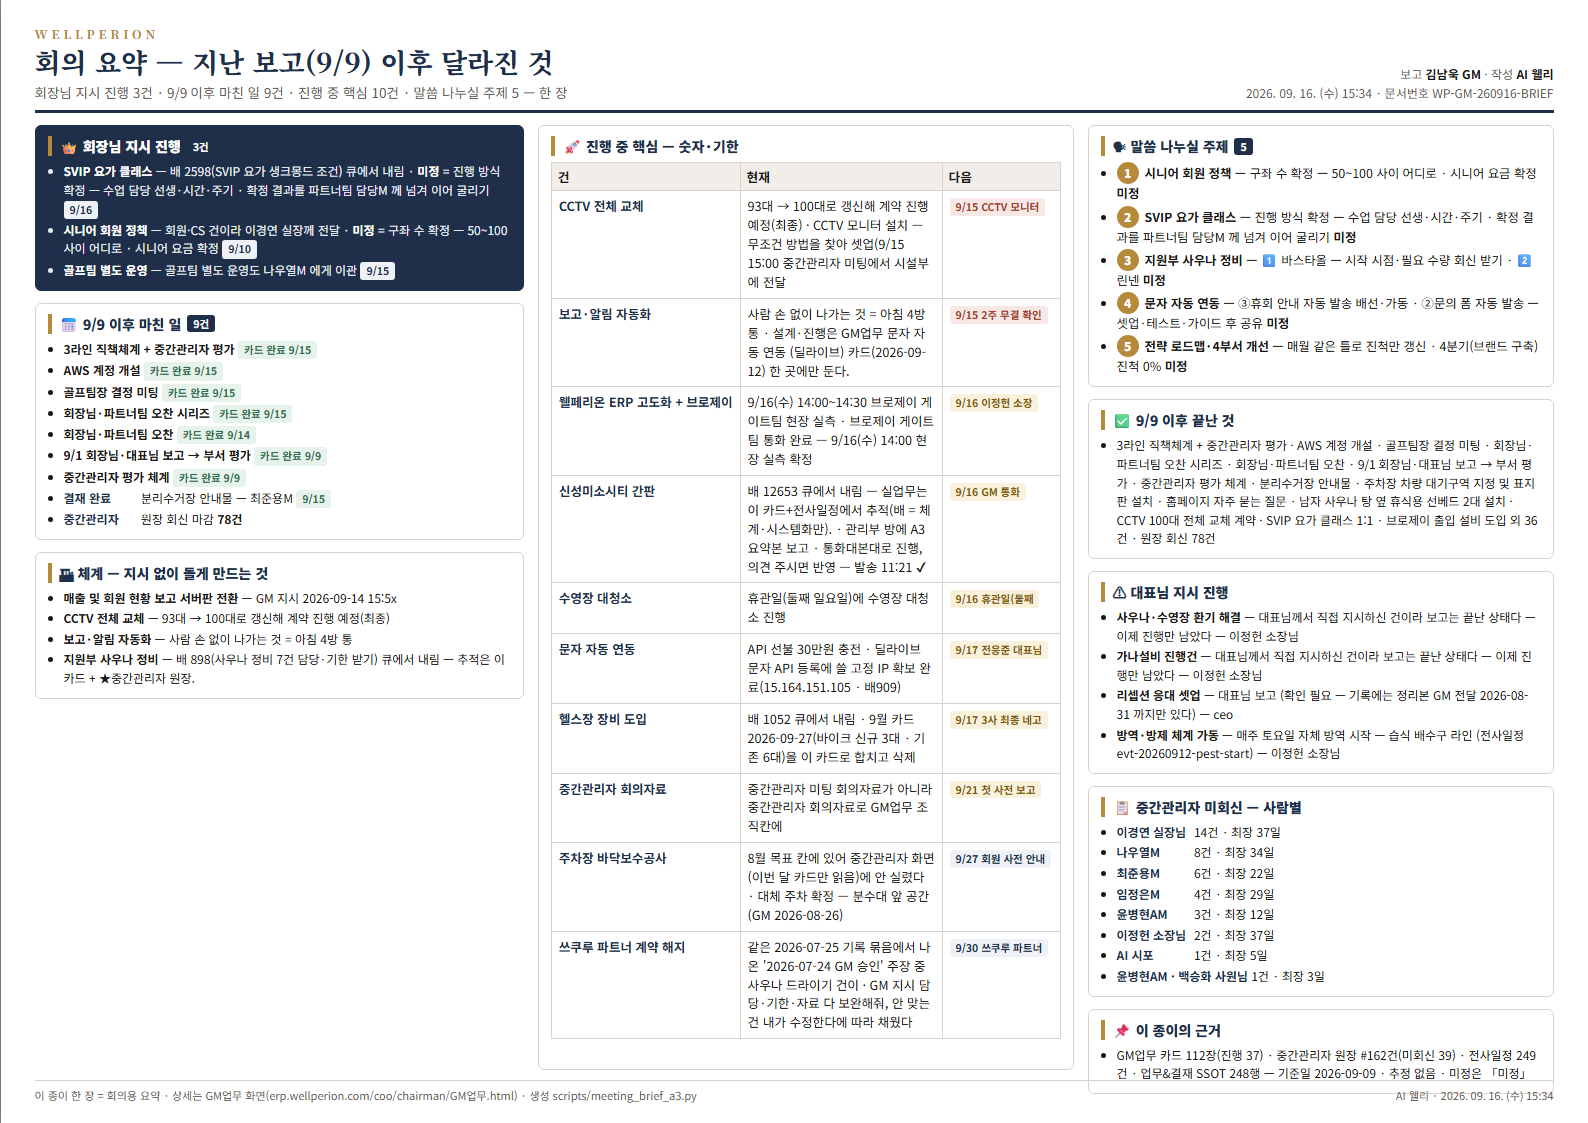
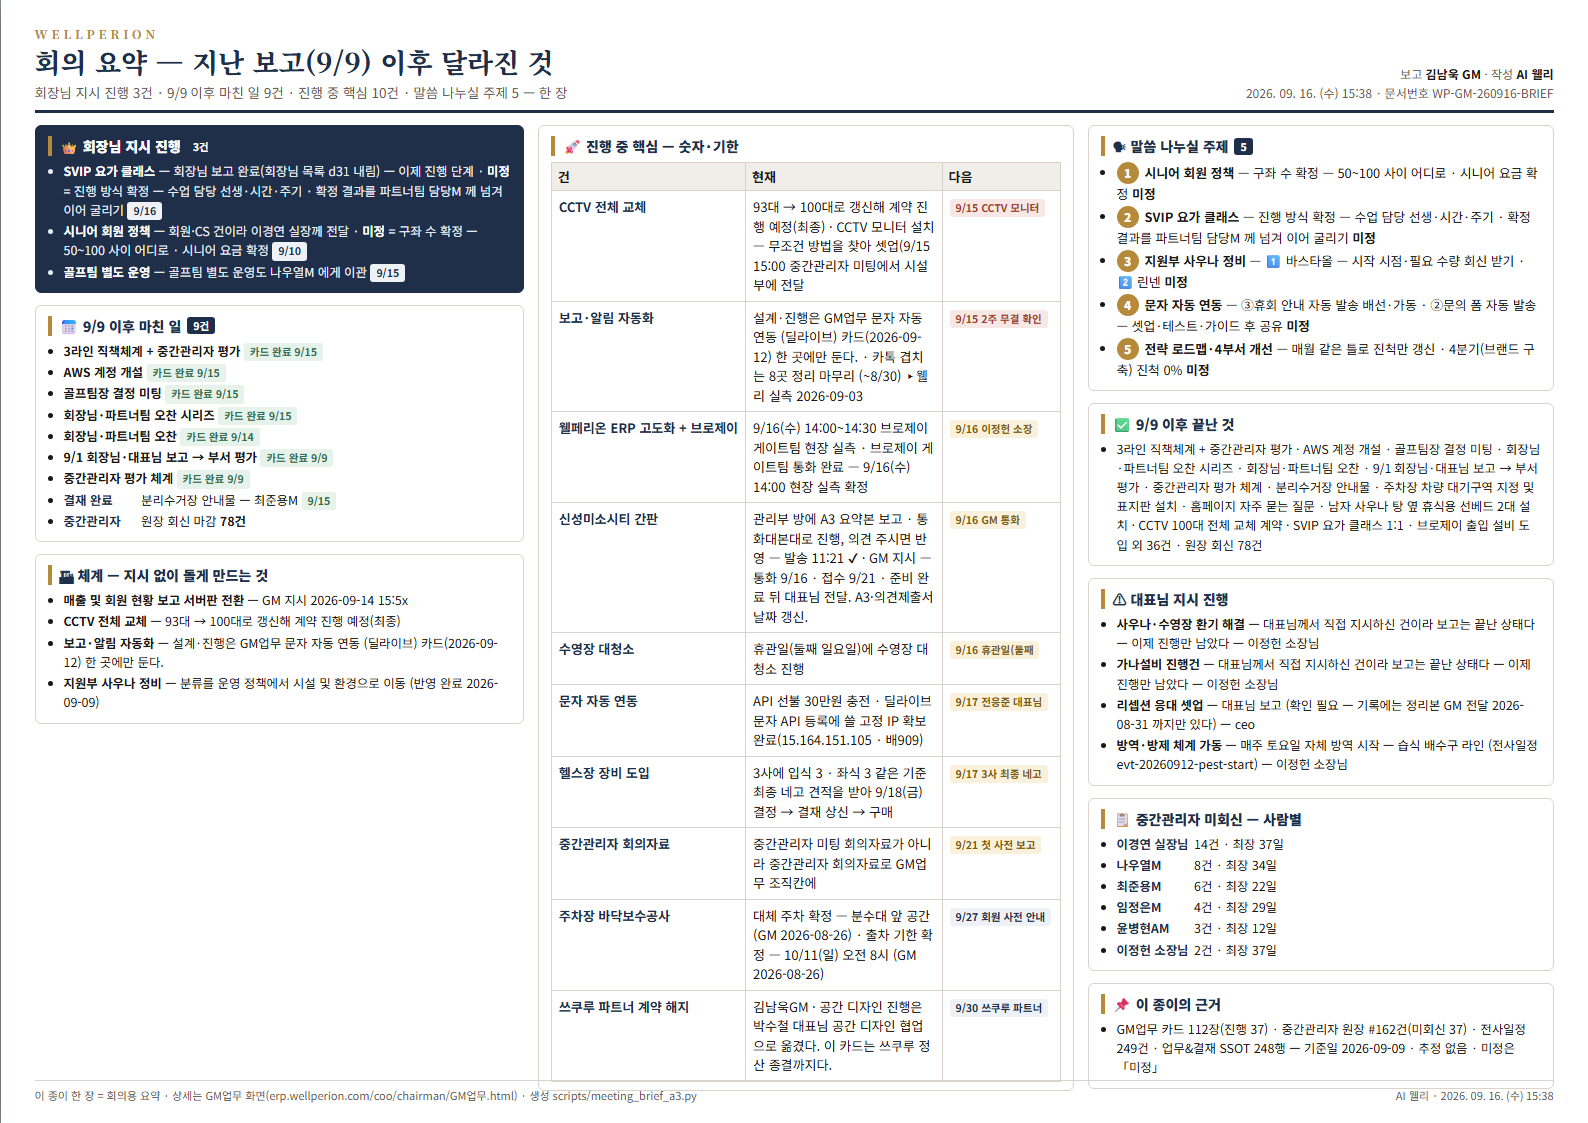
[웰리] 회의 요약 A3 3판 — 살림 문장 제외 · GM업무 링크 (배 2705)

diff --git a/3. 웰페리온 가이드/coo/chairman/회의요약_A3.html b/3. 웰페리온 가이드/coo/chairman/회의요약_A3.html
@@ -3,7 +3,7 @@
 <title>회의 요약 — 지난 보고(9/9) 이후 달라진 것</title>
 <link href="https://fonts.googleapis.com/css2?family=Noto+Sans+KR:wght@400;500;700;900&family=Noto+Serif+KR:wght@600;800&display=swap" rel="stylesheet">
 <style>
-:root{--ink:#1a1815;--sub:#5f5a54;--line:#d9d3cc;--navy:#1f2f4a;--gold:#b58a3a;--bg:#faf8f5;--red:#a33a2a;--ok:#2f6f4e;--fs:12px}
+:root{--ink:#1a1815;--sub:#5f5a54;--line:#d9d3cc;--navy:#1f2f4a;--gold:#b58a3a;--bg:#faf8f5;--red:#a33a2a;--ok:#2f6f4e;--fs:12.4px}
 @page{size:A3 landscape;margin:0}
 *{box-sizing:border-box}
 body{margin:0;background:#8A9099;font-family:'Noto Sans KR',sans-serif;color:var(--ink);-webkit-print-color-adjust:exact;print-color-adjust:exact}
@@ -47,7 +47,7 @@ td.n{font-weight:700;color:var(--navy);white-space:nowrap}
       <h1>회의 요약 — 지난 보고(9/9) 이후 달라진 것</h1>
       <div class="sub">회장님 지시 진행 3건 · 9/9 이후 마친 일 9건 · 진행 중 핵심 10건 · 말씀 나누실 주제 5 — 한 장</div>
     </div>
-    <div class="meta">보고 <b>김남욱 GM</b> · 작성 <b>AI 웰리</b><br>2026. 09. 16. (수) 15:34 · 문서번호 WP-GM-260916-BRIEF</div>
+    <div class="meta">보고 <b>김남욱 GM</b> · 작성 <b>AI 웰리</b><br>2026. 09. 16. (수) 15:38 · 문서번호 WP-GM-260916-BRIEF</div>
   </div>
 
   <div class="grid">
@@ -55,7 +55,7 @@ td.n{font-weight:700;color:var(--navy);white-space:nowrap}
     <div class="col">
       <div class="box top">
         <h2>👑 회장님 지시 진행 <span class="tag">3건</span></h2>
-        <ul><li><b>SVIP 요가 클래스</b> — 배 2598(SVIP 요가 생크몽드 조건) 큐에서 내림 · <b>미정</b> = 진행 방식 확정 — 수업 담당 선생·시간·주기 · 확정 결과를 파트너팀 담당M 께 넘겨 이어 굴리기  <span class="pill">9/16</span></li><li><b>시니어 회원 정책</b> — 회원·CS 건이라 이경연 실장께 전달 · <b>미정</b> = 구좌 수 확정 — 50~100 사이 어디로 · 시니어 요금 확정  <span class="pill">9/10</span></li><li><b>골프팀 별도 운영</b> — 골프팀 별도 운영도 나우열M 에게 이관  <span class="pill">9/15</span></li></ul>
+        <ul><li><b>SVIP 요가 클래스</b> — 회장님 보고 완료(회장님 목록 d31 내림) — 이제 진행 단계 · <b>미정</b> = 진행 방식 확정 — 수업 담당 선생·시간·주기 · 확정 결과를 파트너팀 담당M 께 넘겨 이어 굴리기  <span class="pill">9/16</span></li><li><b>시니어 회원 정책</b> — 회원·CS 건이라 이경연 실장께 전달 · <b>미정</b> = 구좌 수 확정 — 50~100 사이 어디로 · 시니어 요금 확정  <span class="pill">9/10</span></li><li><b>골프팀 별도 운영</b> — 골프팀 별도 운영도 나우열M 에게 이관  <span class="pill">9/15</span></li></ul>
       </div>
       <div class="box">
         <h2>📅 9/9 이후 마친 일 <span class="tag">9건</span></h2>
@@ -63,7 +63,7 @@ td.n{font-weight:700;color:var(--navy);white-space:nowrap}
       </div>
       <div class="box">
         <h2>🏗 체계 — 지시 없이 돌게 만드는 것</h2>
-        <ul><li><b>매출 및 회원 현황 보고 서버판 전환</b> — GM 지시 2026-09-14 15:5x</li><li><b>CCTV 전체 교체</b> — 93대 → 100대로 갱신해 계약 진행 예정(최종)</li><li><b>보고·알림 자동화</b> — 사람 손 없이 나가는 것 = 아침 4방 통</li><li><b>지원부 사우나 정비</b> — 배 898(사우나 정비 7건 담당·기한 받기) 큐에서 내림 — 추적은 이 카드 + ★중간관리자 원장.</li></ul>
+        <ul><li><b>매출 및 회원 현황 보고 서버판 전환</b> — GM 지시 2026-09-14 15:5x</li><li><b>CCTV 전체 교체</b> — 93대 → 100대로 갱신해 계약 진행 예정(최종)</li><li><b>보고·알림 자동화</b> — 설계·진행은 GM업무 문자 자동 연동 (딜라이브) 카드(2026-09-12) 한 곳에만 둔다.</li><li><b>지원부 사우나 정비</b> — 분류를 운영 정책에서 시설 및 환경으로 이동 (반영 완료 2026-09-09)</li></ul>
       </div>
     </div>
 
@@ -74,15 +74,15 @@ td.n{font-weight:700;color:var(--navy);white-space:nowrap}
         <table>
           <tr><th style="width:150px">건</th><th>현재</th><th style="width:118px">다음</th></tr>
           <tr><td class="n">CCTV 전체 교체</td><td>93대 → 100대로 갱신해 계약 진행 예정(최종) · CCTV 모니터 설치 — 무조건 방법을 찾아 셋업(9/15 15:00 중간관리자 미팅에서 시설부에 전달</td><td><span class="pill r">9/15 CCTV 모니터</span></td></tr>
-          <tr><td class="n">보고·알림 자동화</td><td>사람 손 없이 나가는 것 = 아침 4방 통 · 설계·진행은 GM업무 문자 자동 연동 (딜라이브) 카드(2026-09-12) 한 곳에만 둔다.</td><td><span class="pill r">9/15 2주 무결 확인</span></td></tr>
+          <tr><td class="n">보고·알림 자동화</td><td>설계·진행은 GM업무 문자 자동 연동 (딜라이브) 카드(2026-09-12) 한 곳에만 둔다. · 카톡 겹치는 8곳 정리 마무리 (~8/30) ▸웰리 실측 2026-09-03</td><td><span class="pill r">9/15 2주 무결 확인</span></td></tr>
           <tr><td class="n">웰페리온 ERP 고도화 + 브로제이</td><td>9/16(수) 14:00~14:30 브로제이 게이트팀 현장 실측 · 브로제이 게이트팀 통화 완료 — 9/16(수) 14:00 현장 실측 확정</td><td><span class="pill y">9/16 이정헌 소장</span></td></tr>
-          <tr><td class="n">신성미소시티 간판</td><td>배 12653 큐에서 내림 — 실업무는 이 카드+전사일정에서 추적(배 = 체계·시스템화만). · 관리부 방에 A3 요약본 보고 · 통화대본대로 진행, 의견 주시면 반영 — 발송 11:21 ✔</td><td><span class="pill y">9/16 GM 통화</span></td></tr>
+          <tr><td class="n">신성미소시티 간판</td><td>관리부 방에 A3 요약본 보고 · 통화대본대로 진행, 의견 주시면 반영 — 발송 11:21 ✔ · GM 지시 — 통화 9/16 · 접수 9/21 · 준비 완료 뒤 대표님 전달. A3·의견제출서 날짜 갱신.</td><td><span class="pill y">9/16 GM 통화</span></td></tr>
           <tr><td class="n">수영장 대청소</td><td>휴관일(둘째 일요일)에 수영장 대청소 진행</td><td><span class="pill y">9/16 휴관일(둘째</span></td></tr>
           <tr><td class="n">문자 자동 연동</td><td>API 선불 30만원 충전 · 딜라이브 문자 API 등록에 쓸 고정 IP 확보 완료(15.164.151.105 · 배909)</td><td><span class="pill y">9/17 전응준 대표님</span></td></tr>
-          <tr><td class="n">헬스장 장비 도입</td><td>배 1052 큐에서 내림 · 9월 카드 2026-09-27(바이크 신규 3대 · 기존 6대)을 이 카드로 합치고 삭제</td><td><span class="pill y">9/17 3사 최종 네고</span></td></tr>
+          <tr><td class="n">헬스장 장비 도입</td><td>3사에 입식 3 · 좌식 3 같은 기준 최종 네고 견적을 받아 9/18(금) 결정 → 결재 상신 → 구매</td><td><span class="pill y">9/17 3사 최종 네고</span></td></tr>
           <tr><td class="n">중간관리자 회의자료</td><td>중간관리자 미팅 회의자료가 아니라 중간관리자 회의자료로 GM업무 조직칸에</td><td><span class="pill y">9/21 첫 사전 보고</span></td></tr>
-          <tr><td class="n">주차장 바닥보수공사</td><td>8월 목표 칸에 있어 중간관리자 화면(이번 달 카드만 읽음)에 안 실렸다 · 대체 주차 확정 — 분수대 앞 공간 (GM 2026-08-26)</td><td><span class="pill">9/27 회원 사전 안내</span></td></tr>
-          <tr><td class="n">쓰쿠루 파트너 계약 해지</td><td>같은 2026-07-25 기록 묶음에서 나온 '2026-07-24 GM 승인' 주장 중 사우나 드라이기 건이 · GM 지시 담당·기한·자료 다 보완해줘, 안 맞는 건 내가 수정한다에 따라 채웠다</td><td><span class="pill">9/30 쓰쿠루 파트너</span></td></tr>
+          <tr><td class="n">주차장 바닥보수공사</td><td>대체 주차 확정 — 분수대 앞 공간 (GM 2026-08-26) · 출차 기한 확정 — 10/11(일) 오전 8시 (GM 2026-08-26)</td><td><span class="pill">9/27 회원 사전 안내</span></td></tr>
+          <tr><td class="n">쓰쿠루 파트너 계약 해지</td><td>김남욱GM · 공간 디자인 진행은 박수철 대표님 공간 디자인 협업으로 옮겼다. 이 카드는 쓰쿠루 정산 종결까지다.</td><td><span class="pill">9/30 쓰쿠루 파트너</span></td></tr>
         </table>
       </div>
     </div>
@@ -103,15 +103,15 @@ td.n{font-weight:700;color:var(--navy);white-space:nowrap}
       </div>
       <div class="box">
         <h2>📋 중간관리자 미회신 — 사람별</h2>
-        <ul><li><span class="k">이경연 실장님</span> 14건 · 최장 37일</li><li><span class="k">나우열M</span> 8건 · 최장 34일</li><li><span class="k">최준용M</span> 6건 · 최장 22일</li><li><span class="k">임정은M</span> 4건 · 최장 29일</li><li><span class="k">윤병현AM</span> 3건 · 최장 12일</li><li><span class="k">이정헌 소장님</span> 2건 · 최장 37일</li><li><span class="k">AI 시포</span> 1건 · 최장 5일</li><li><span class="k">윤병현AM · 백승화 사원님</span> 1건 · 최장 3일</li></ul>
+        <ul><li><span class="k">이경연 실장님</span> 14건 · 최장 37일</li><li><span class="k">나우열M</span> 8건 · 최장 34일</li><li><span class="k">최준용M</span> 6건 · 최장 22일</li><li><span class="k">임정은M</span> 4건 · 최장 29일</li><li><span class="k">윤병현AM</span> 3건 · 최장 12일</li><li><span class="k">이정헌 소장님</span> 2건 · 최장 37일</li></ul>
       </div>
       <div class="box">
         <h2>📌 이 종이의 근거</h2>
-        <ul><li>GM업무 카드 112장(진행 37) · 중간관리자 원장 #162건(미회신 39) · 전사일정 249건 · 업무&결재 SSOT 248행 — 기준일 2026-09-09 · 추정 없음 · 미정은 「미정」</li></ul>
+        <ul><li>GM업무 카드 112장(진행 37) · 중간관리자 원장 #162건(미회신 37) · 전사일정 249건 · 업무&결재 SSOT 248행 — 기준일 2026-09-09 · 추정 없음 · 미정은 「미정」</li></ul>
       </div>
     </div>
   </div>
 
-  <div class="ft"><span>이 종이 한 장 = 회의용 요약 · 상세는 GM업무 화면(erp.wellperion.com/coo/chairman/GM업무.html) · 생성 scripts/meeting_brief_a3.py</span><span>AI 웰리 · 2026. 09. 16. (수) 15:34</span></div>
+  <div class="ft"><span>이 종이 한 장 = 회의용 요약 · 상세는 GM업무 화면(erp.wellperion.com/coo/chairman/GM업무.html) · 생성 scripts/meeting_brief_a3.py</span><span>AI 웰리 · 2026. 09. 16. (수) 15:38</span></div>
 </div>
 </body></html>

diff --git a/scripts/meeting_brief_a3.py b/scripts/meeting_brief_a3.py
@@ -51,6 +51,9 @@ PREFIX_RE = re.compile(r"^(?:[▶▸·□☑✅\-\s]|\[[^\]]*\]|\([^)]*\d{4}-\d{
 TAIL_RE = re.compile(r"\s*[—\-·]?\s*담당\s*[:：].*$|\s*[—\-·]?\s*기한\s*[:：].*$|\s*\(~?\d{1,2}/\d{1,2}\)\s*$")
 NUMBERED_RE = re.compile(r"^\d+(?:-\d+)?\)\s*")
 SYS_KW = re.compile(r"시스템|자동화|체계|ERP|AWS|서버|자동|보고 루틴|랩스|플랫폼")
+# AI 살림 문장(큐·카드 정리 얘기)은 회의 종이에 안 싣는다 — 걸리면 그 카드의 다음 후보 줄로(3판 · 팀장 지시)
+HOUSEKEEPING = re.compile(r"배 \d+|큐에서|카드로 합치|합치고 삭제|목표 칸|화면에 안 실렸|note|원문 =|이력\.md|gm_handoff|시우 제안값|채웠다|기록 묶음|주장 중")
+PERSON_OWNER = re.compile(r"^[가-힣]{2,4}\s?(실장|소장|원장|팀장|고문|M|AM|사원|주임|프로)님?$")  # 미회신 사람별 — 비정형 owner(AI·두 사람 묶음)는 뺀다
 
 
 def esc(s) -> str:
@@ -145,7 +148,8 @@ def note_lines(note: str) -> list[tuple[dt.date | None, str]]:
 def latest_lines(card: dict, today: dt.date, n: int = 1, prefer_numbers: bool = False) -> tuple[dt.date | None, list[str]]:
     """최신 날짜 줄부터 n개 정제 절. prefer_numbers = 숫자·날짜 든 줄을 앞세운다(진행 표 「현재」)."""
     dated = sorted(((d, l) for d, l in card["_lines"] if d and d <= today), key=lambda x: x[0], reverse=True)
-    pool = [l for _, l in dated] or [l for _, l in card["_lines"]] or [card.get("target") or "미정"]
+    pool = [l for _, l in dated] or [l for _, l in card["_lines"]]
+    pool = [l for l in pool if not HOUSEKEEPING.search(l)] or [card.get("target") or "미정"]
     if prefer_numbers:
         pool = sorted(pool[:6], key=lambda l: not re.search(r"\d", clause(l)))
     out: list[str] = []
@@ -383,7 +387,7 @@ def build(since: dt.date, today: dt.date, now: dt.datetime, log) -> tuple[dict, 
     # 3열 — 📋 중간관리자 미회신(사람별)
     open_by: dict[str, list[int]] = {}
     for d, it in ledger.values():
-        if it.get("status") == "open":
+        if it.get("status") == "open" and PERSON_OWNER.match(it.get("owner") or ""):
             ref = parse_date(it.get("sent_at")) or parse_date(d) or today
             open_by.setdefault(it.get("owner") or "담당 미정", []).append((today - ref).days)
     mgr_li = [f'<li><span class="k">{esc(nim(o))}</span> {len(v)}건 · 최장 {max(v)}일</li>'
